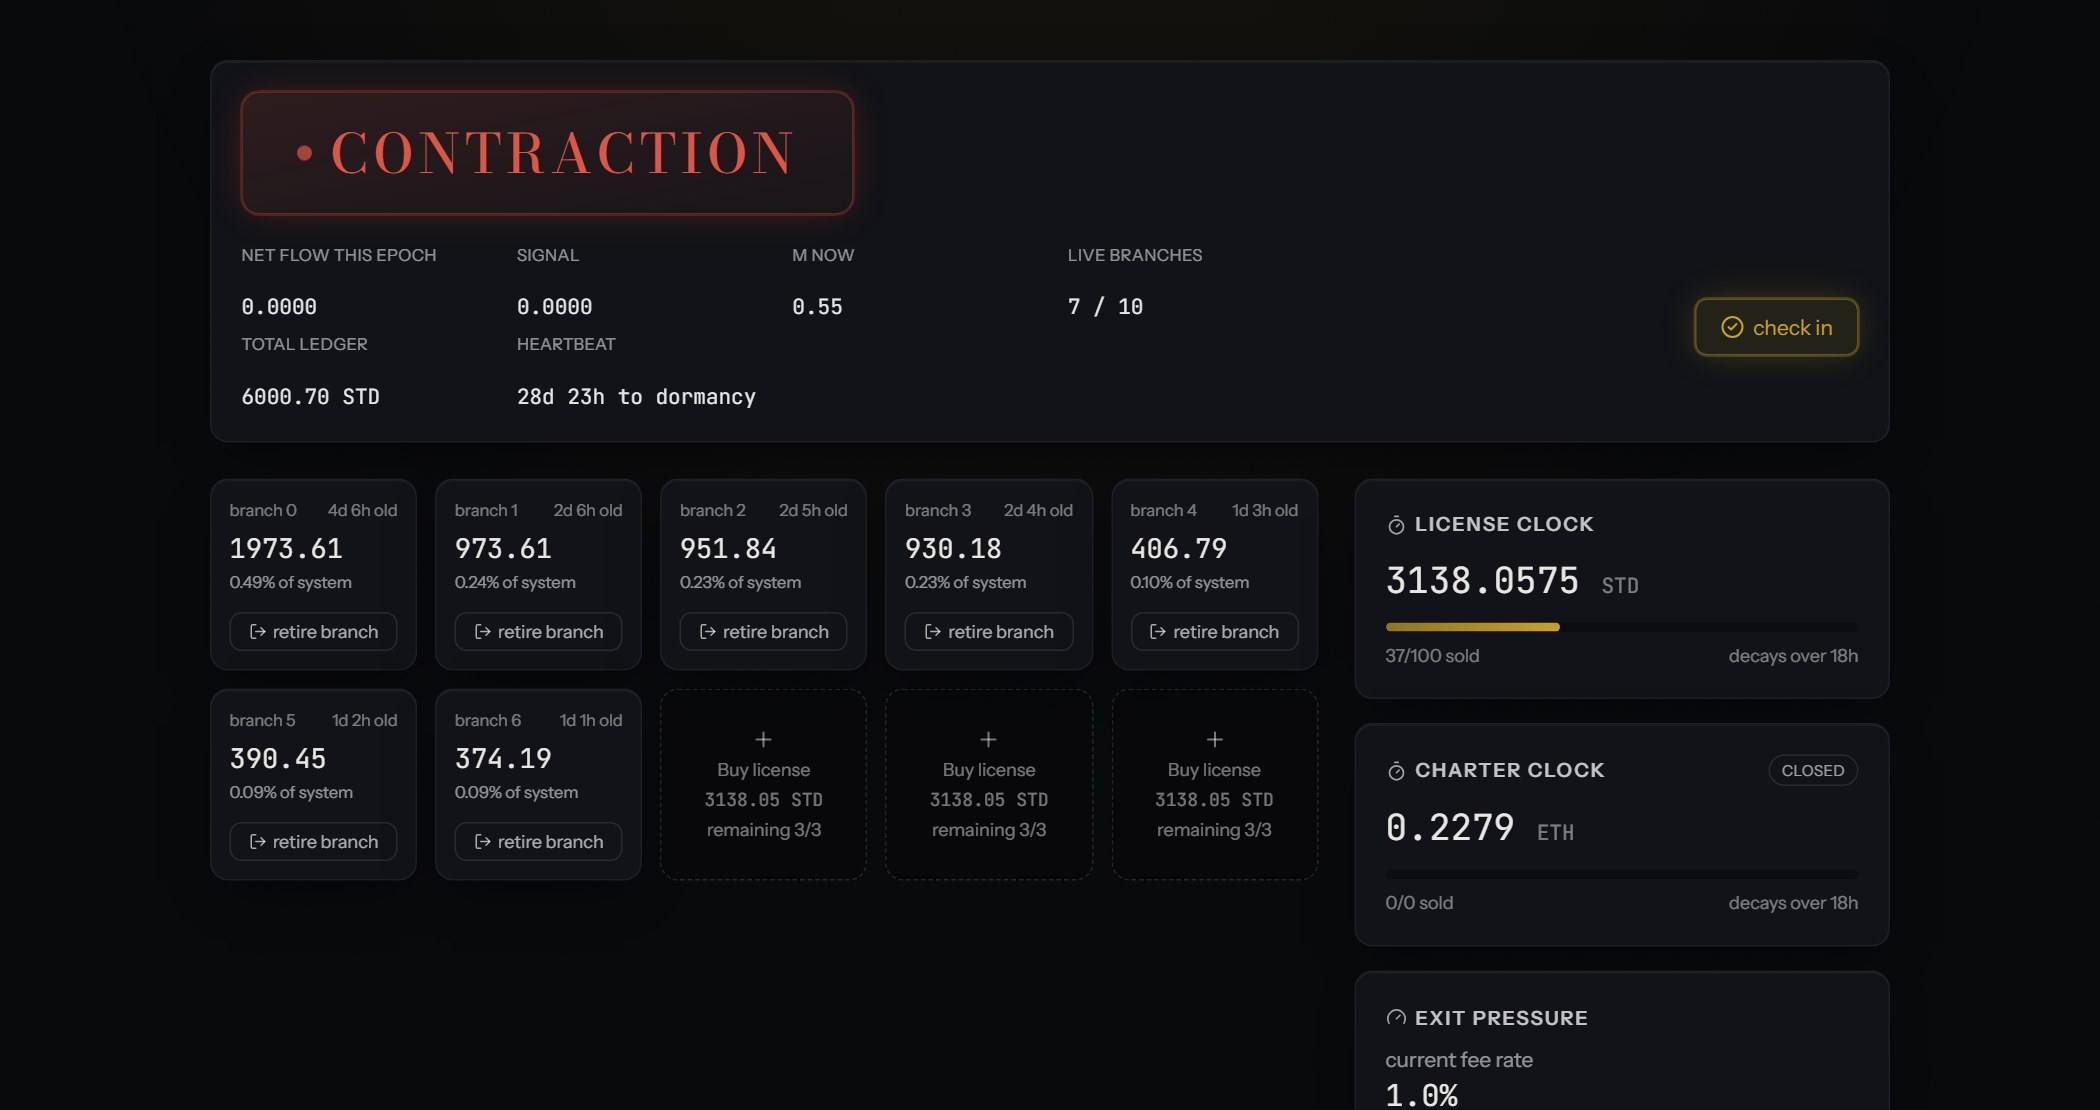
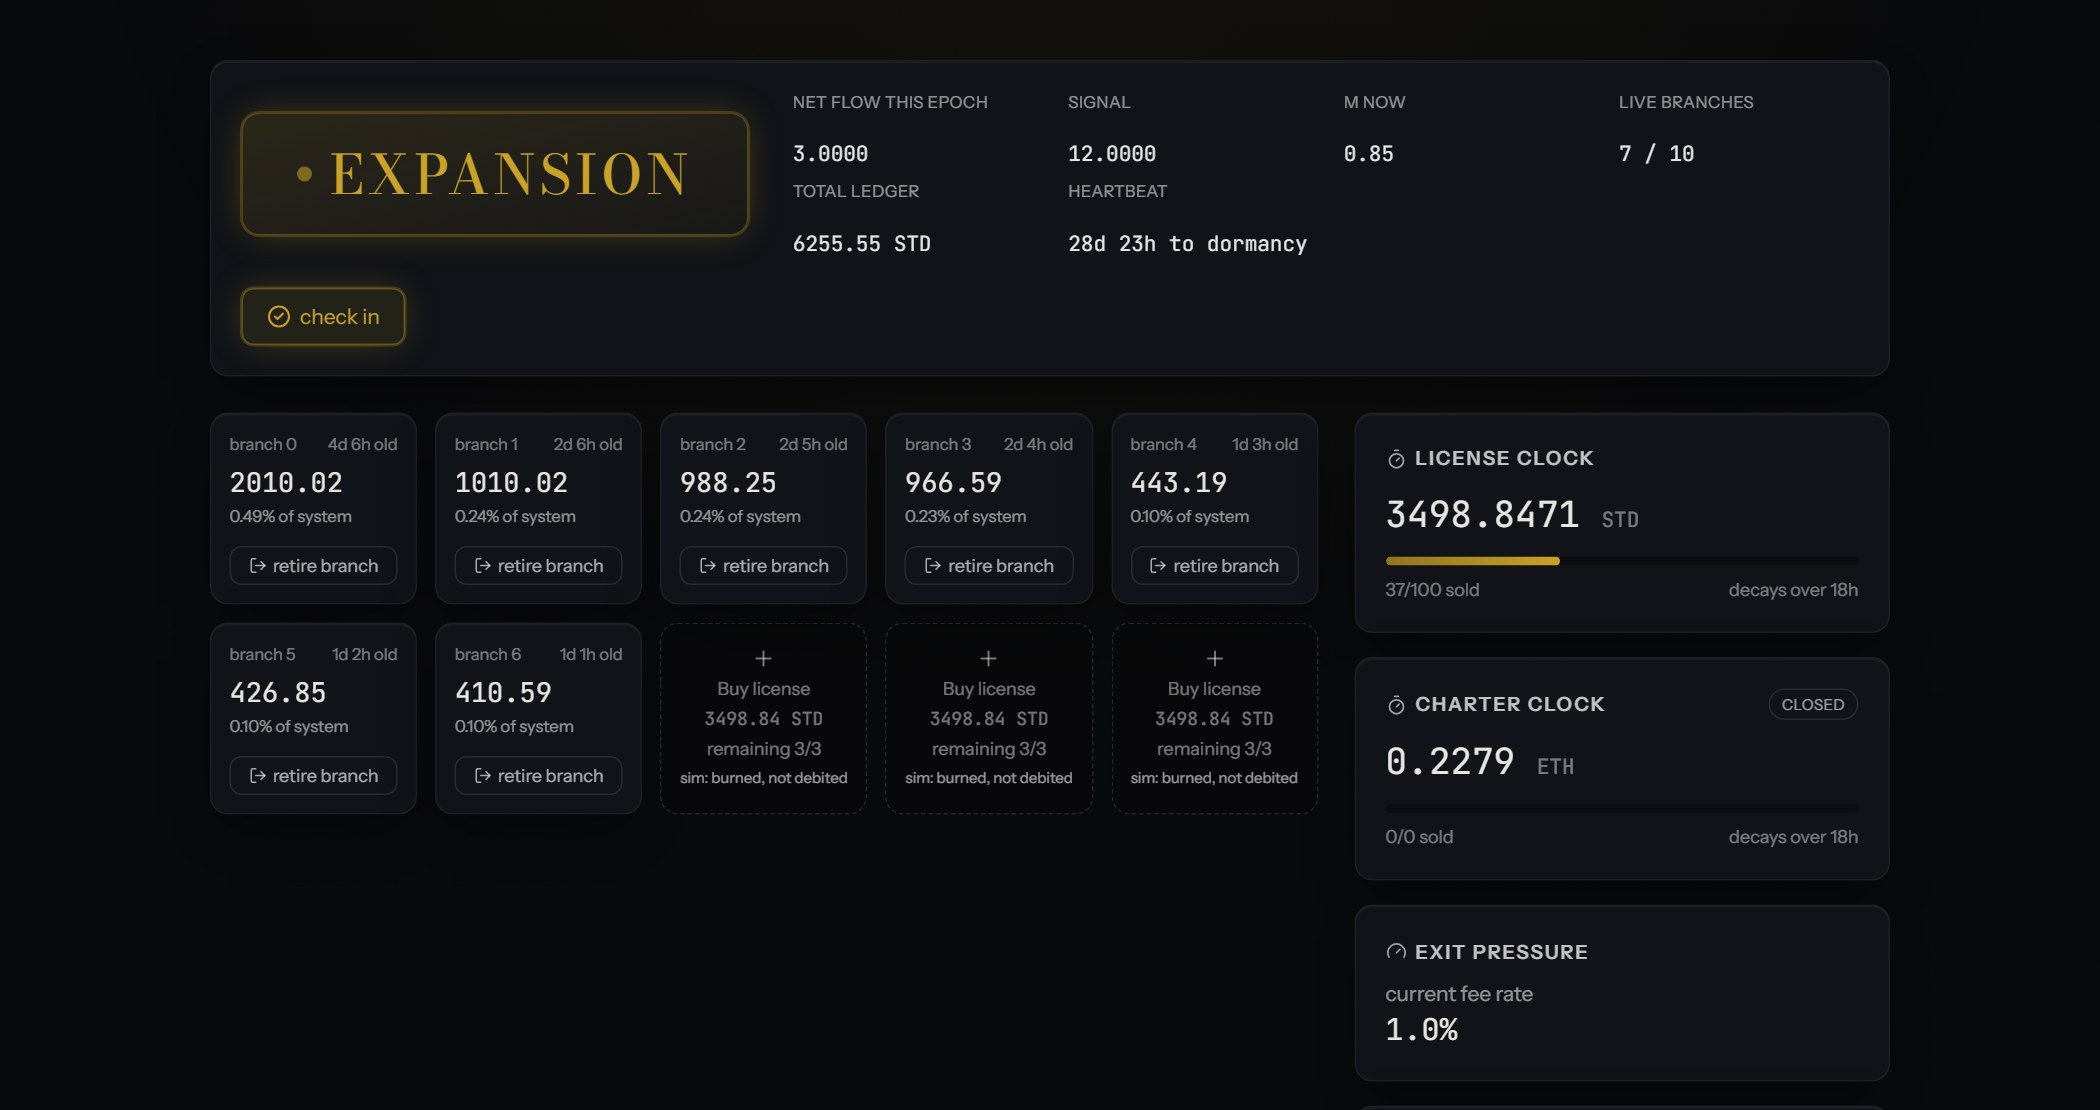
Act on external review: 6 valid concerns, 1 invalid, 1 vacuous test exposed
The demo world opened in contraction and that was the serious one. The seed
traded for two epochs, but its final ticks closed epochs with no flow, so the
last closed epoch was F_n = 0 -- contraction by spec. Every route, every
screenshot and the product shot opened red, and the gold half of the design
was never seen.

Worse, it made the Phase B exit criterion meaningless: "loading exodus flips
the regime to contraction" asserted a state that was already true before the
action, so it would have passed if the scenario loader did nothing at all.
The seed now closes its last epoch on net inflow, and the test asserts the
starting state first so it cannot go vacuous again.

The what-if ribbon was missing two of the five entries the spec names
("m, your yield/day, S_circ, gold, feeRate"): added yield/day -- this
charter's share of a day's issuance, in tokens, never a rate, since §0
forbids APY in the UI -- and expansion gold. Those two are what make it a
banker's tool rather than a debug panel.

/lab rendered zero characters of server HTML: Suspense fallback={null} meant
crawlers, link previews and slow first paints saw an empty <main>. Now a real
server-rendered description of the instrument, 0 -> 712 chars.

Landing copy said "net ETH inflow raises m". The spec is explicit that signal
(two completed epochs) drives issuance while this epoch's sign only routes
fees -- one good day does not raise m. Fixed on the page most people read.
[…]

diff --git a/apps/web/app/lab/page.tsx b/apps/web/app/lab/page.tsx
@@ -67,10 +67,53 @@ const Charts = dynamic(() => import("@/components/Charts").then((m) => m.Charts)
 });
 
 export default function LabPage() {
+  // fallback={null} meant the server sent a <main> containing literally zero
+  // characters: a crawler, a link preview, and the first paint of a slow
+  // connection all saw an empty page where the Lab's whole point is on
+  // display. The fallback now describes the instrument in real markup, and
+  // is replaced by the live version the moment it hydrates.
   return (
-    <Suspense fallback={null}>
+    <Suspense fallback={<LabSkeleton />}>
       <LabInner />
     </Suspense>
+  );
+}
+
+/** Server-rendered stand-in: real text, no client state. */
+function LabSkeleton() {
+  return (
+    <div className="grid grid-cols-1 gap-6 lg:grid-cols-12">
+      <section className="space-y-4 lg:col-span-7">
+        <Card>
+          <h1 className="optical-title font-display text-2xl text-paper">The Lab</h1>
+          <p className="mt-3 max-w-xl text-sm leading-relaxed text-white/60">
+            The god view of the simulation. Drive the monetary policy directly: swap ETH for
+            $STANDARD and back, advance the clock by an hour, a day or a whole epoch, spawn
+            genesis charters, force the charter auction open, and watch the regime, the issuance
+            multiplier m, the supply identities and the invariant pill respond in real time.
+          </p>
+          <p className="mt-3 max-w-xl text-sm leading-relaxed text-white/60">
+            Five scripted scenarios replay worlds that each teach one behaviour — a week of
+            inflow, an exodus, a wash trade, a licence mania and a ghost purge. Everything is
+            deterministic and runs entirely in your browser.
+          </p>
+          <p className="mt-4 border-t border-white/[0.06] pt-3 text-xs text-white/60">
+            Loading the live world…
+          </p>
+        </Card>
+      </section>
+      <section className="space-y-4 lg:col-span-5">
+        <Card>
+          <h2 className="font-sans text-[13px] font-semibold uppercase tracking-[0.1em] text-white/75">
+            Injectors
+          </h2>
+          <p className="mt-2 text-sm leading-relaxed text-white/60">
+            Market, time, charters, scenarios and world export — the controls that let you put
+            the policy under load rather than read about it.
+          </p>
+        </Card>
+      </section>
+    </div>
   );
 }
 
@@ -202,7 +245,10 @@ function LabInner() {
             <Stat label="contraction ETH" value={fmtEth(world.vaults.contractionEth)} />
             <Stat label="POL ETH" value={fmtEth(world.polEth)} />
             <Stat label="POL STD" value={fmtToken(world.polStd)} />
-            <Stat label="pool spot" value={`${spotPriceEthPerStd(world.pool).toFixed(8)} ETH/STD`} />
+            <Stat
+              label="pool spot (sim units)"
+              value={`${spotPriceEthPerStd(world.pool).toFixed(8)} ETH/STD`}
+            />
           </div>
         </Card>
 

diff --git a/apps/web/components/WhatIfDrawer.tsx b/apps/web/components/WhatIfDrawer.tsx
@@ -2,8 +2,10 @@
 
 import { useMemo, useState } from "react";
 import {
+  DAY_SECONDS,
   applySwap,
   buyLicense,
+  computeEpochIssuance,
   computeFeeRate,
   retireBranch,
   supplyCirc,
@@ -13,7 +15,34 @@ import {
 import type { World } from "@standard-law/engine";
 import { Sparkles } from "lucide-react";
 import { Card } from "@/components/Card";
-import { fmtPct, fmtToken } from "@/lib/format";
+import { fmtEth, fmtPct, fmtToken } from "@/lib/format";
+
+/**
+ * This charter's share of a day's issuance, in $STANDARD.
+ *
+ * Issuance is streamed equally across every live branch in the system, so a
+ * charter earns in proportion to how many of them are its own. Deliberately
+ * expressed per day in tokens, never as a rate or a percentage -- spec §0
+ * forbids the word APY in the UI, and quoting a yield percentage on a
+ * simulated placeholder economy would be exactly the claim the disclaimer
+ * says this app does not make.
+ */
+function yieldPerDay(world: World, charterId: string): bigint {
+  let live = 0;
+  let mine = 0;
+  for (const c of Object.values(world.charters)) {
+    if (!c.alive) continue;
+    for (const b of c.branches) {
+      if (!b.alive) continue;
+      live += 1;
+      if (c.id === charterId) mine += 1;
+    }
+  }
+  if (live === 0 || mine === 0) return 0n;
+  const perEpoch = computeEpochIssuance(world);
+  const perDay = (perEpoch * BigInt(DAY_SECONDS)) / BigInt(world.params.epochSeconds);
+  return (perDay * BigInt(mine)) / BigInt(live);
+}
 
 export function WhatIfDrawer({
   world,
@@ -57,6 +86,12 @@ export function WhatIfDrawer({
 
   const feeRateNow = computeFeeRate(world);
   const feeRatePreview = computeFeeRate(preview);
+  // Spec §"What-if drawer sliders": the ribbon is m, your yield/day, S_circ,
+  // gold, feeRate. Gold and yield/day were missing, which left it reading as
+  // a debug panel rather than something a banker could decide with -- they
+  // are the only two entries that answer "what does this do for me".
+  const yieldNow = yieldPerDay(world, charterId);
+  const yieldPreview = yieldPerDay(preview, charterId);
   // With every slider at rest the commit would apply no actions at all —
   // a button that silently does nothing.
   const nothingStaged = flowEth === 0 && licensesToBuy === 0 && branchesToRetire === 0;
@@ -98,6 +133,14 @@ export function WhatIfDrawer({
         <Stat
           label="S_circ now → preview"
           value={`${fmtToken(supplyCirc(world))} → ${fmtToken(supplyCirc(preview))}`}
+        />
+        <Stat
+          label="your yield/day now → preview"
+          value={`${fmtToken(yieldNow)} → ${fmtToken(yieldPreview)} STD`}
+        />
+        <Stat
+          label="expansion gold now → preview"
+          value={`${fmtEth(world.vaults.expansionGold)} → ${fmtEth(preview.vaults.expansionGold)} g`}
         />
         <Stat label="feeRate now → preview" value={`${fmtPct(feeRateNow)} → ${fmtPct(feeRatePreview)}`} />
         <Stat

diff --git a/apps/web/lib/demo-seed.ts b/apps/web/lib/demo-seed.ts
@@ -23,9 +23,27 @@ export function buildDemoWorld(): World {
     world = tick(world, 3600);
   }
 
+  // A last day of net inflow *before* the epoch closes.
+  //
+  // Without this the demo world's most recently closed epoch had F_n = 0, and
+  // zero is contraction by spec -- so every route, every screenshot and the
+  // product shot all opened on a red CONTRACTION badge and the gold half of
+  // the design was never seen. Worse, it made the Phase B exit test
+  // ("loading exodus flips the regime to contraction") assert a state that was
+  // already true before the action: it would have passed if the scenario
+  // loader did nothing at all.
+  //
+  // This is a demo seed, not a claim -- the world already simulates two epochs
+  // of trading to give the ledgers something in them.
+  world = applySwap(world, "buyStd", 12n * 10n ** 18n);
+
   // Roll into a fresh day so c-0042's daily license quota (just maxed above)
   // is open again when the demo loads, and the auction below reads as "today".
   world = tick(world, 86_400);
+
+  // A little flow in the *open* epoch too, so "net flow this epoch" reads as a
+  // live number rather than a flat 0.0000 on first paint.
+  world = applySwap(world, "buyStd", 3n * 10n ** 18n);
 
   // Fill the day's license auction to ~37 sold (mid-curve) across other charters.
   const otherIds = Object.keys(world.charters).filter((id) => id !== DEMO_CHARTER_ID);

diff --git a/apps/web/tests/layout.spec.ts b/apps/web/tests/layout.spec.ts
@@ -86,13 +86,18 @@ test("both regimes paint their own colour, everywhere", async ({ page }) => {
   // value when it changes (the ticker flashed rgb(232,202,104) mid-animation),
   // so the assertion has to wait for the colour to settle rather than catch
   // the flash and call it a palette bug.
-  await page.goto("/lab");
-  await expect(page.getByTestId("regime-badge")).toBeVisible();
-  await expect.poll(tickerRegime).toEqual({ text: "contraction", color: CONTRACTION });
-
+  // The demo world now opens in expansion, so contraction is reached by
+  // loading exodus rather than by doing nothing.
+  // Both halves of the palette, each asserted while its own regime is live.
   await loadExpansion(page);
   await expect.poll(tickerRegime).toEqual({ text: "expansion", color: EXPANSION });
   await expect(page.getByTestId("regime-badge")).toHaveCSS("color", EXPANSION);
+
+  await page.getByRole("combobox").selectOption("exodus");
+  await page.getByRole("button", { name: "load scenario" }).click();
+  await expect(page.getByTestId("regime-badge")).toHaveText(/contraction/i);
+  await expect.poll(tickerRegime).toEqual({ text: "contraction", color: CONTRACTION });
+  await expect(page.getByTestId("regime-badge")).toHaveCSS("color", CONTRACTION);
 
   // Charts must draw from the same palette, not their own copy of it.
   await expect(page.locator(".recharts-wrapper").first()).toBeVisible();

diff --git a/apps/web/app/bank/[id]/layout.tsx b/apps/web/app/bank/[id]/layout.tsx
@@ -1,4 +1,21 @@
 import type { Metadata } from "next";
+import { redirect } from "next/navigation";
+
+/**
+ * Charter ids are `c-NNNN`, but the landing CTA reads "Enter demo bank #0042"
+ * and the whitepaper talks about charter 0042 -- so a reader who types the
+ * number they were shown lands on `/bank/0042` and gets an empty cockpit.
+ *
+ * The normalisation is purely lexical (does adding the `c-` prefix produce a
+ * well-formed id?), so it belongs on the server, and it redirects rather than
+ * silently rendering: one canonical URL per charter keeps links, metadata and
+ * the crawler's view in agreement.
+ */
+function canonicalId(id: string): string | null {
+  if (/^c-\d+$/.test(id)) return null;
+  if (/^\d+$/.test(id)) return `c-${id}`;
+  return null;
+}
 
 /** page.tsx is a client component and so cannot export metadata itself.
  *  generateMetadata runs on the server, so the charter id in the URL ends up
@@ -10,6 +27,14 @@ export function generateMetadata({ params }: { params: { id: string } }): Metada
   };
 }
 
-export default function BankLayout({ children }: { children: React.ReactNode }) {
+export default function BankLayout({
+  children,
+  params,
+}: {
+  children: React.ReactNode;
+  params: { id: string };
+}) {
+  const canonical = canonicalId(params.id);
+  if (canonical) redirect(`/bank/${canonical}`);
   return children;
 }

diff --git a/apps/web/tests/cockpit.spec.ts b/apps/web/tests/cockpit.spec.ts
@@ -2,6 +2,14 @@ import { expect, test } from "@playwright/test";
 
 test("lab: loading exodus flips the regime to contraction", async ({ page }) => {
   await page.goto("/lab");
+
+  // Assert the *starting* state first. Without this the test was vacuous: the
+  // demo world's last closed epoch had F_n = 0, which is contraction by spec,
+  // so "flips to contraction" asserted something that was already true and
+  // would have passed even if the scenario loader did nothing at all. This is
+  // the Phase B exit criterion, so it needs to actually exercise the flip.
+  await expect(page.getByTestId("regime-badge")).toHaveText(/expansion/i);
+
   await page.getByRole("combobox").selectOption("exodus");
   await page.getByRole("button", { name: "load scenario" }).click();
   await expect(page.getByTestId("regime-badge")).toHaveText(/contraction/i);

diff --git a/apps/web/components/BranchRack.tsx b/apps/web/components/BranchRack.tsx
@@ -35,6 +35,13 @@ export function BranchRack({
               <span>Buy license</span>
               <span className="tabular font-mono">{fmtToken(licensePriceNow)} STD</span>
               <span>remaining {licenseRemainingToday}/3</span>
+              {/* Spec §0: no wallet in v1, so there is no balance to debit.
+                  The price is burned into B exactly as the whitepaper says,
+                  but nothing checks that this charter could have paid it --
+                  a reader who assumes otherwise would misread every number
+                  downstream, so the slot says so rather than implying a
+                  purchase that was never funded. */}
+              <span className="text-[10px] text-white/60">sim: burned, not debited</span>
             </button>
           );
         }

diff --git a/apps/web/app/page.tsx b/apps/web/app/page.tsx
@@ -18,7 +18,7 @@ const LOOPS = [
   {
     index: "02",
     title: "Expansion",
-    body: "Net ETH inflow raises the issuance multiplier m, up to mMax, streaming more $STANDARD to live branches.",
+    body: "Issuance follows the signal — the last two closed epochs. This epoch's own sign only routes fees. Sustained inflow raises m toward mMax; one good day does not.",
   },
   {
     index: "03",

diff --git a/docs/CHECKLIST.md b/docs/CHECKLIST.md
@@ -132,6 +132,14 @@ Not in the original architecture doc — found while deliberately looking for ro
 - [x] **The contrast gate was blind to the sweep page's actual content.** It loaded `/sweep` empty, so the grid, the verdict list and the selected-cell panel — the majority of that page, and all of its colour-carrying UI — were never measured. An empty page passing says nothing about the page people read. The check now runs a sweep, selects a cell, and measures the populated state (0 failures, but the gap was real).
 - [x] **Raised the Playwright timeout from 30s to 60s.** The dormancy test drives 31 daily ticks through the real UI at 12–18s on a developer machine — under 2× headroom against a 30s ceiling, and it duly failed once in a full-suite run while passing in isolation. There is no faster UI path (`epochSeconds` is one day), so the test is legitimately long rather than accidentally slow. A gate that flakes is worse than no gate: the habit it teaches is to re-run rather than to look.
 - [x] **Verified, not assumed: the sweep worker does not leak.** Navigating away mid-run appeared to leave a worker alive. A control experiment (spawn a worker, terminate it, watch the count drop) proved the measurement sound, and the real worker does die — in 0.8–2.3s, scaling with grid size, because the browser cannot kill a worker mid-synchronous-block. `terminate()` on unmount is correct; the latency is the browser's floor. This did surface a genuine gap though — there was no way to **cancel** a running sweep at all, so a 180-day × 10-seed grid left the reader watching. Added a cancel button: the UI releases in ~100ms, and cancellation must be `terminate()` rather than a message, because `runSweep` never pumps the worker's message queue mid-run.
+- [x] **External review pass — six of eight concerns valid, one invalid, and one exposed a vacuous test.**
+  - **The demo world opened in contraction, and that made the Phase B exit test meaningless.** The seed traded for two epochs but the final ticks closed epochs with no flow, so the last closed epoch was `F_n = 0` — contraction by spec. Every route, every screenshot and the product shot opened red, and the gold half of the design was never seen. Worse: `lab: loading exodus flips the regime to contraction` asserted a state that was **already true**, so it would have passed if the scenario loader did nothing at all. The seed now closes its last epoch on net inflow (and leaves a little flow in the open epoch so "net flow this epoch" is not a flat zero), and the test asserts the starting state first so it cannot go vacuous again.
+  - **What-if ribbon was missing two of its five spec'd entries.** [ARCHITECTURE.md §"What-if drawer sliders"](ARCHITECTURE.md) requires "m, your yield/day, S_circ, gold, feeRate"; it shipped m, S_circ, feeRate, S_max. Added *your yield/day* (this charter's share of a day's issuance, in tokens — never a rate, since §0 forbids APY in the UI) and *expansion gold*. Those two are the only entries that answer "what does this do for me", which is what separated a banker's tool from a debug panel.
+  - **`/lab` rendered zero characters of server HTML.** `<Suspense fallback={null}>` meant crawlers, link previews and the first paint of a slow connection all saw an empty `<main>`. Replaced with a real server-rendered description of the instrument: 0 → 712 characters.
+  - **Landing copy flattened the policy.** It said "net ETH inflow raises m". The spec is explicit that `signal_n = F_{n-1} + F_{n-2}` (two *completed* epochs) drives issuance while this epoch's sign only routes fees — so one good day does not raise m. Corrected on the page that most people read.
+  - **`/bank/0042` dead-ended** while the landing CTA reads "Enter demo bank #0042". A purely lexical normalisation now 307-redirects bare numbers to the canonical `c-` form, so links, metadata and the crawler's view stay in agreement.
+  - **Two honesty labels.** The pool spot of ~1e-6 ETH/STD is *arithmetically correct* (100 ETH against 100M STD) rather than broken, so it is labelled "sim units" instead of inflating `genesisEth` to make the number flattering — manufacturing a nicer price is the one thing this project must not do. And `buyLicense` burns the price into `B` exactly as the whitepaper says but debits no balance, because §0 says no wallet in v1; the slot now says "sim: burned, not debited" rather than implying a purchase that was never funded.
+  - **Invalid:** "add the disclaimer to lab and cockpit" — it lives in the root layout and was already present on all five routes; verified by grepping the served HTML.
 - [x] **Deeper sweep — structural and validation layers** (things the browser sweep could not reach):
   - **Split-brain scenario files.** `scenarios/` (repo root) and `apps/web/public/scenarios/` were duplicated with nothing keeping them in step, and they have *different consumers*: the engine test suite replays the root copy, the app fetches the public one. A scenario could therefore pass its tests and ship broken, or ship fine and never be tested. Root is now canonical, `scripts/sync-scenarios.mjs` regenerates the public copy on `prebuild`/`predev`, and CI runs it with `--check` so drift fails the build. Verified by deliberately drifting a file and watching the guard catch it.
   - **Params accepted every nonsensical config.** The schema type-checked fields individually but had no cross-field rules, and README tells users to hand-edit `default.json`. `mMin > mMax` silently pins `m` via `updateM`'s clamps; `feeFloor > feeCeil` collapses `feeRateFromP` to the *lower* bound and makes `LawMath.sol` underflow on `feeCeil - feeFloor`; `genesisEth = 0` opens the pool with no ETH so `k = 0` and the AMM is broken from genesis. Added `superRefine` checks with actionable messages, plus 7 tests. Deliberately still allows `baseDailyStd = 0` — zeroing issuance to isolate fee dynamics is a legitimate experiment in a simulator, and validation should not over-reach.
